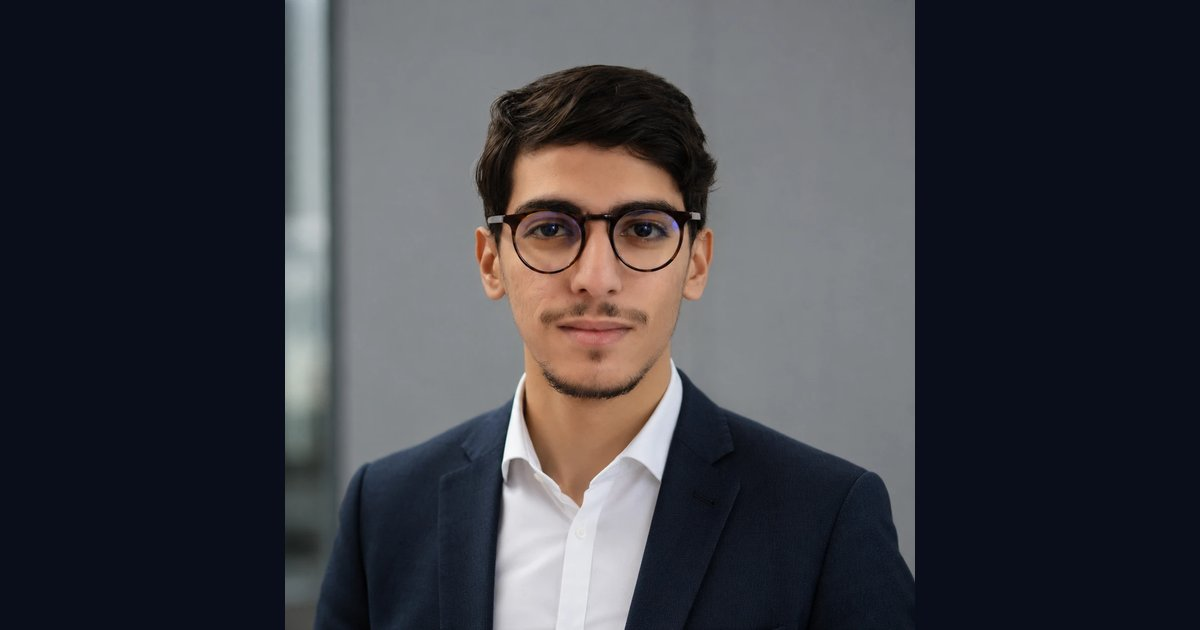
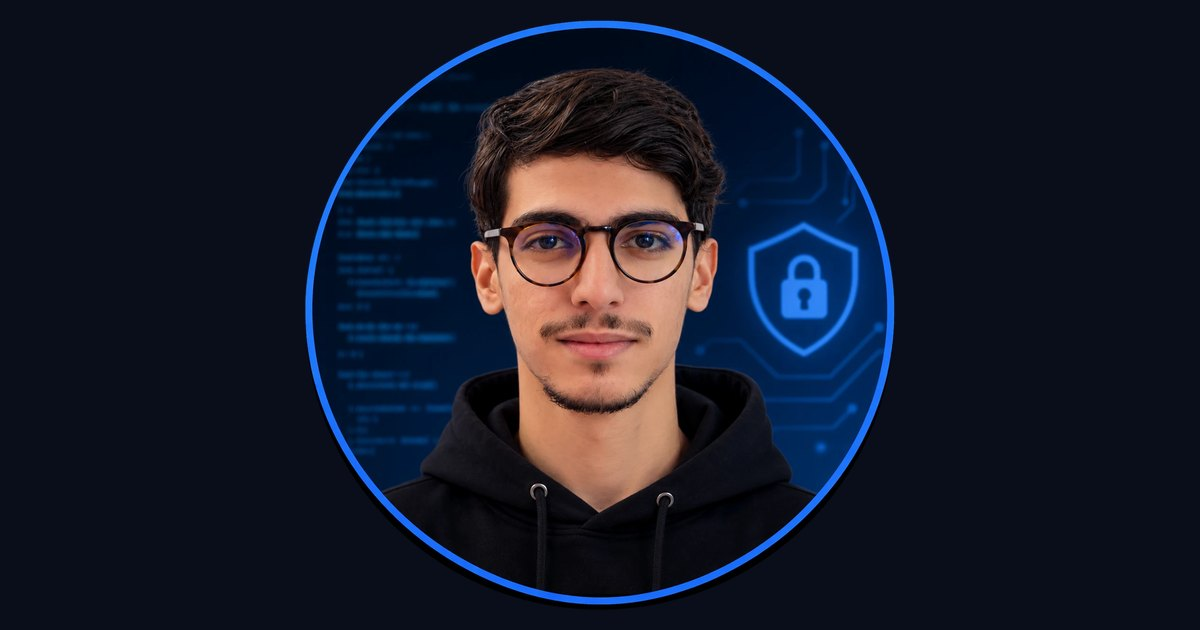
Replace hero photo with the new circular portrait

diff --git a/styles.css b/styles.css
@@ -64,9 +64,8 @@ html[lang="fr"] [data-l="en"],html[lang="en"] [data-l="fr"]{display:none!importa
 .orbit{position:absolute;border:1px solid rgba(107,225,209,.16);border-radius:50%;transform:rotate(-24deg)}
 .orbit-1{width:360px;height:230px}
 .orbit-2{width:460px;height:310px;transform:rotate(45deg);border-color:rgba(161,151,255,.14)}
-.hero-photo{position:relative;z-index:1;width:min(70%,330px);height:380px;margin:0;overflow:hidden;border:1px solid rgba(160,235,222,.34);border-radius:48% 48% 22px 22px;background:#1b2034;box-shadow:0 25px 70px #05081288}
-.hero-photo::after{content:"";position:absolute;inset:45% 0 0;background:linear-gradient(transparent,rgba(9,12,25,.2))}
-.hero-photo img{display:block;width:100%;height:100%;object-fit:cover;object-position:center 30%}
+.hero-photo{position:relative;z-index:1;width:min(76%,370px);aspect-ratio:1;margin:0;border-radius:50%;box-shadow:0 0 70px rgba(52,123,248,.28),0 25px 70px #05081288}
+.hero-photo img{display:block;width:100%;height:100%;border-radius:50%;object-fit:cover}
 .float-card{position:absolute;z-index:2;display:flex;align-items:center;gap:10px;padding:13px 15px;background:rgba(18,25,44,.94);border:1px solid rgba(173,183,220,.16);border-radius:12px;box-shadow:0 16px 50px #06091460}
 .float-card b{display:block;font-size:12px}
 .float-card small{display:block;color:#8794b4;font-size:10px}
@@ -248,7 +247,7 @@ a:focus-visible,button:focus-visible{outline:2px solid var(--cyan);outline-offse
 @media(max-width:850px){
   .hero{grid-template-columns:1fr;padding-top:70px}
   .hero-art{height:390px;margin-top:10px}
-  .hero-photo{height:320px;width:min(68%,300px)}
+  .hero-photo{width:min(70%,330px)}
   .project{grid-template-columns:40px 1fr}
   .project-visual{grid-column:2;max-width:440px;width:100%;height:200px}
   .about-grid{gap:35px}
@@ -262,12 +261,12 @@ a:focus-visible,button:focus-visible{outline:2px solid var(--cyan);outline-offse
   .hero-meta{gap:22px}
   .hero-cvs{flex-direction:column;align-items:flex-start;gap:8px}
   .hero-art{height:330px}
-  .hero-photo{height:290px;width:min(70%,260px)}
+  .hero-photo{width:min(74%,270px)}
   .orbit-1{width:290px;height:190px}
   .orbit-2{width:300px;height:220px}
   .card-top{right:0;top:25px}
   .card-bottom{left:0;bottom:32px}
-  .card-left{left:auto;right:0;top:auto;bottom:92px}
+  .card-left{left:auto;right:0;top:auto;bottom:64px}
   .float-card{padding:10px}
   .scroll-note{display:none}
   .about-grid{grid-template-columns:1fr}
